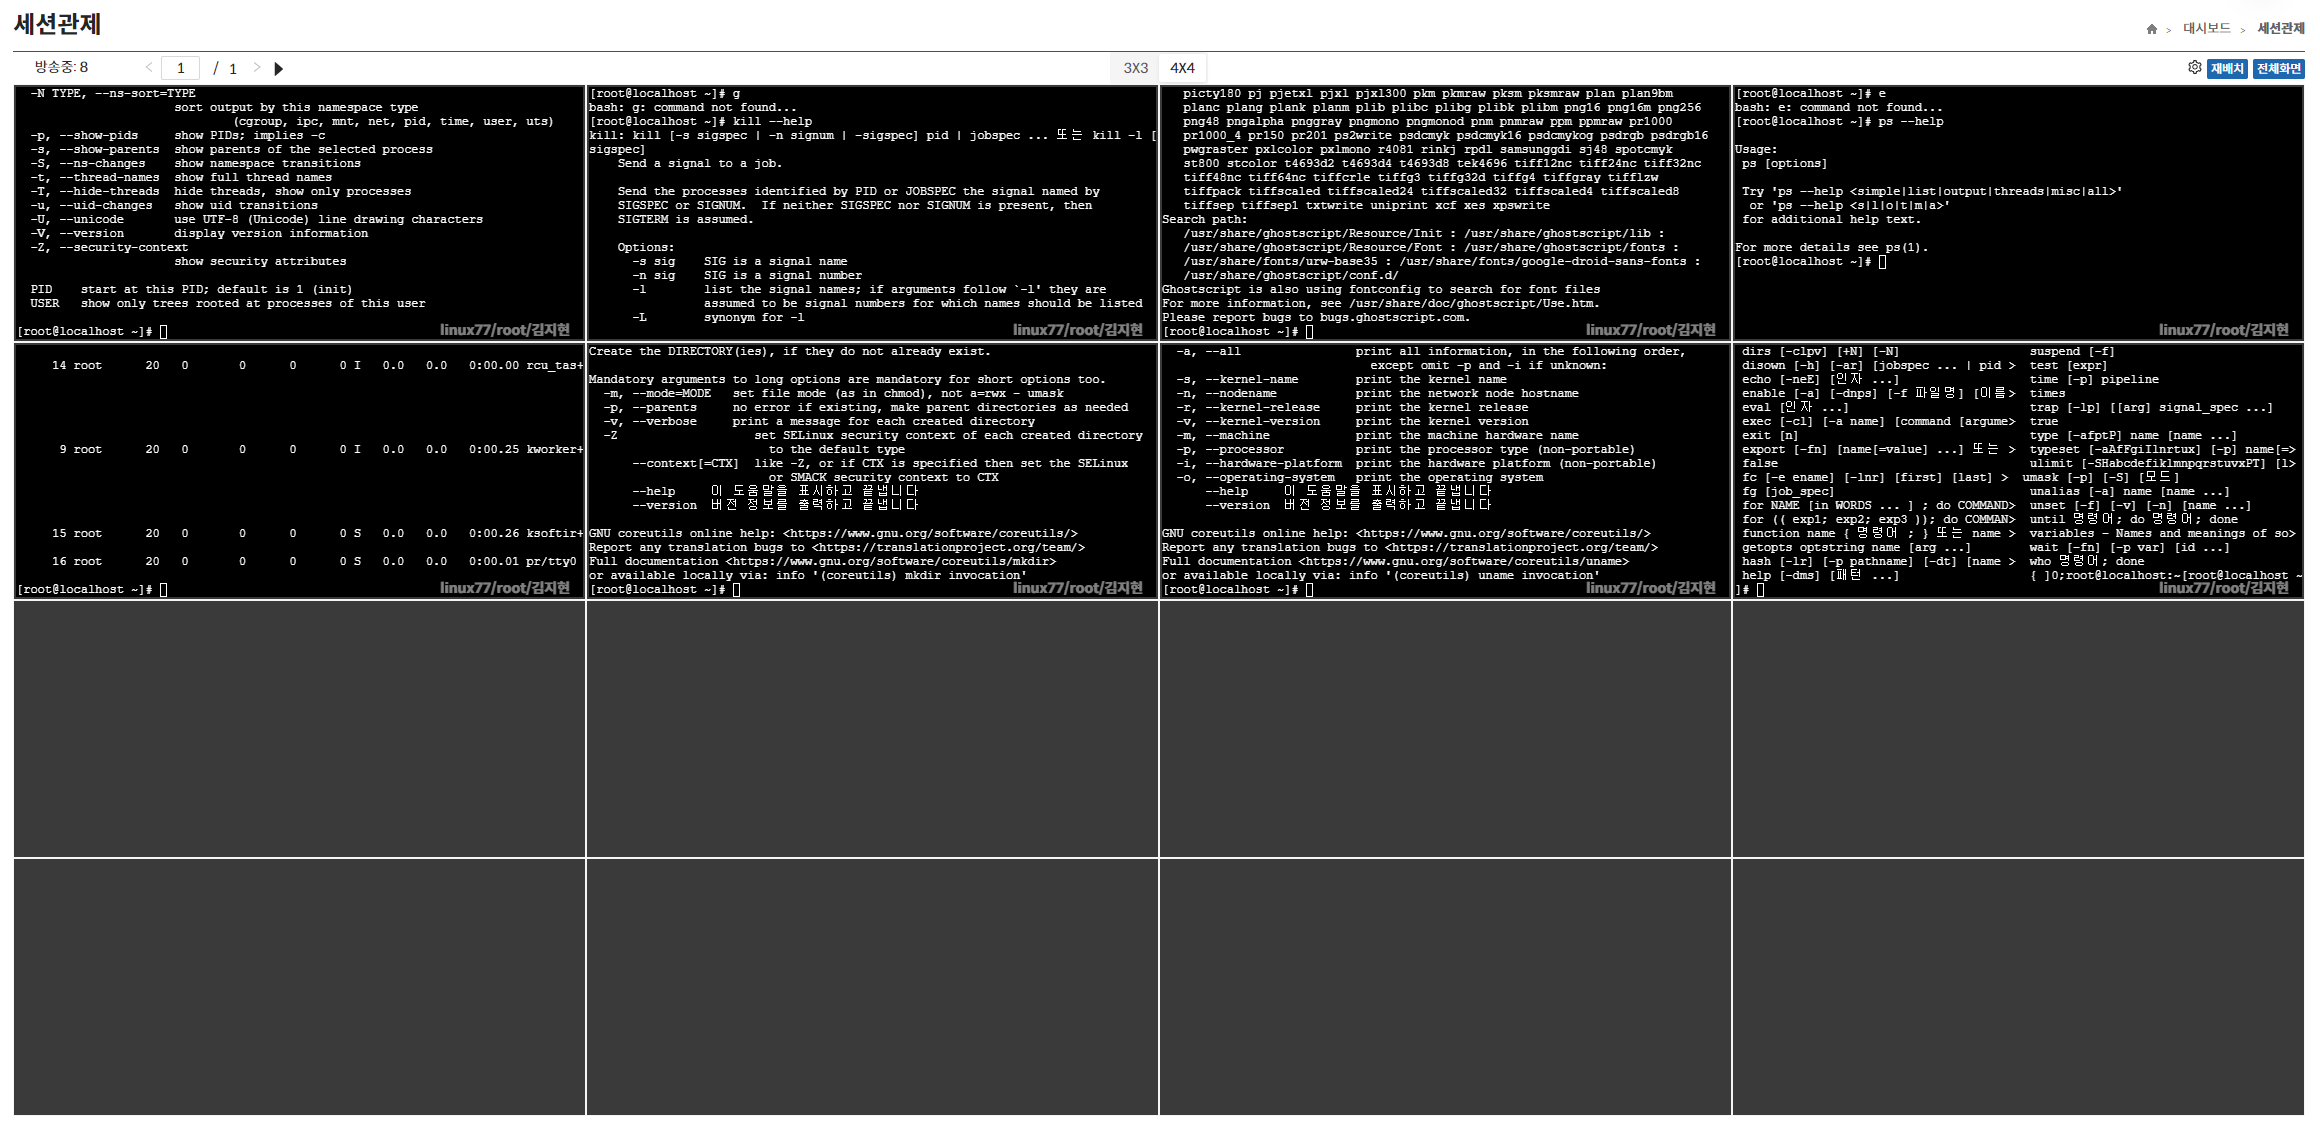
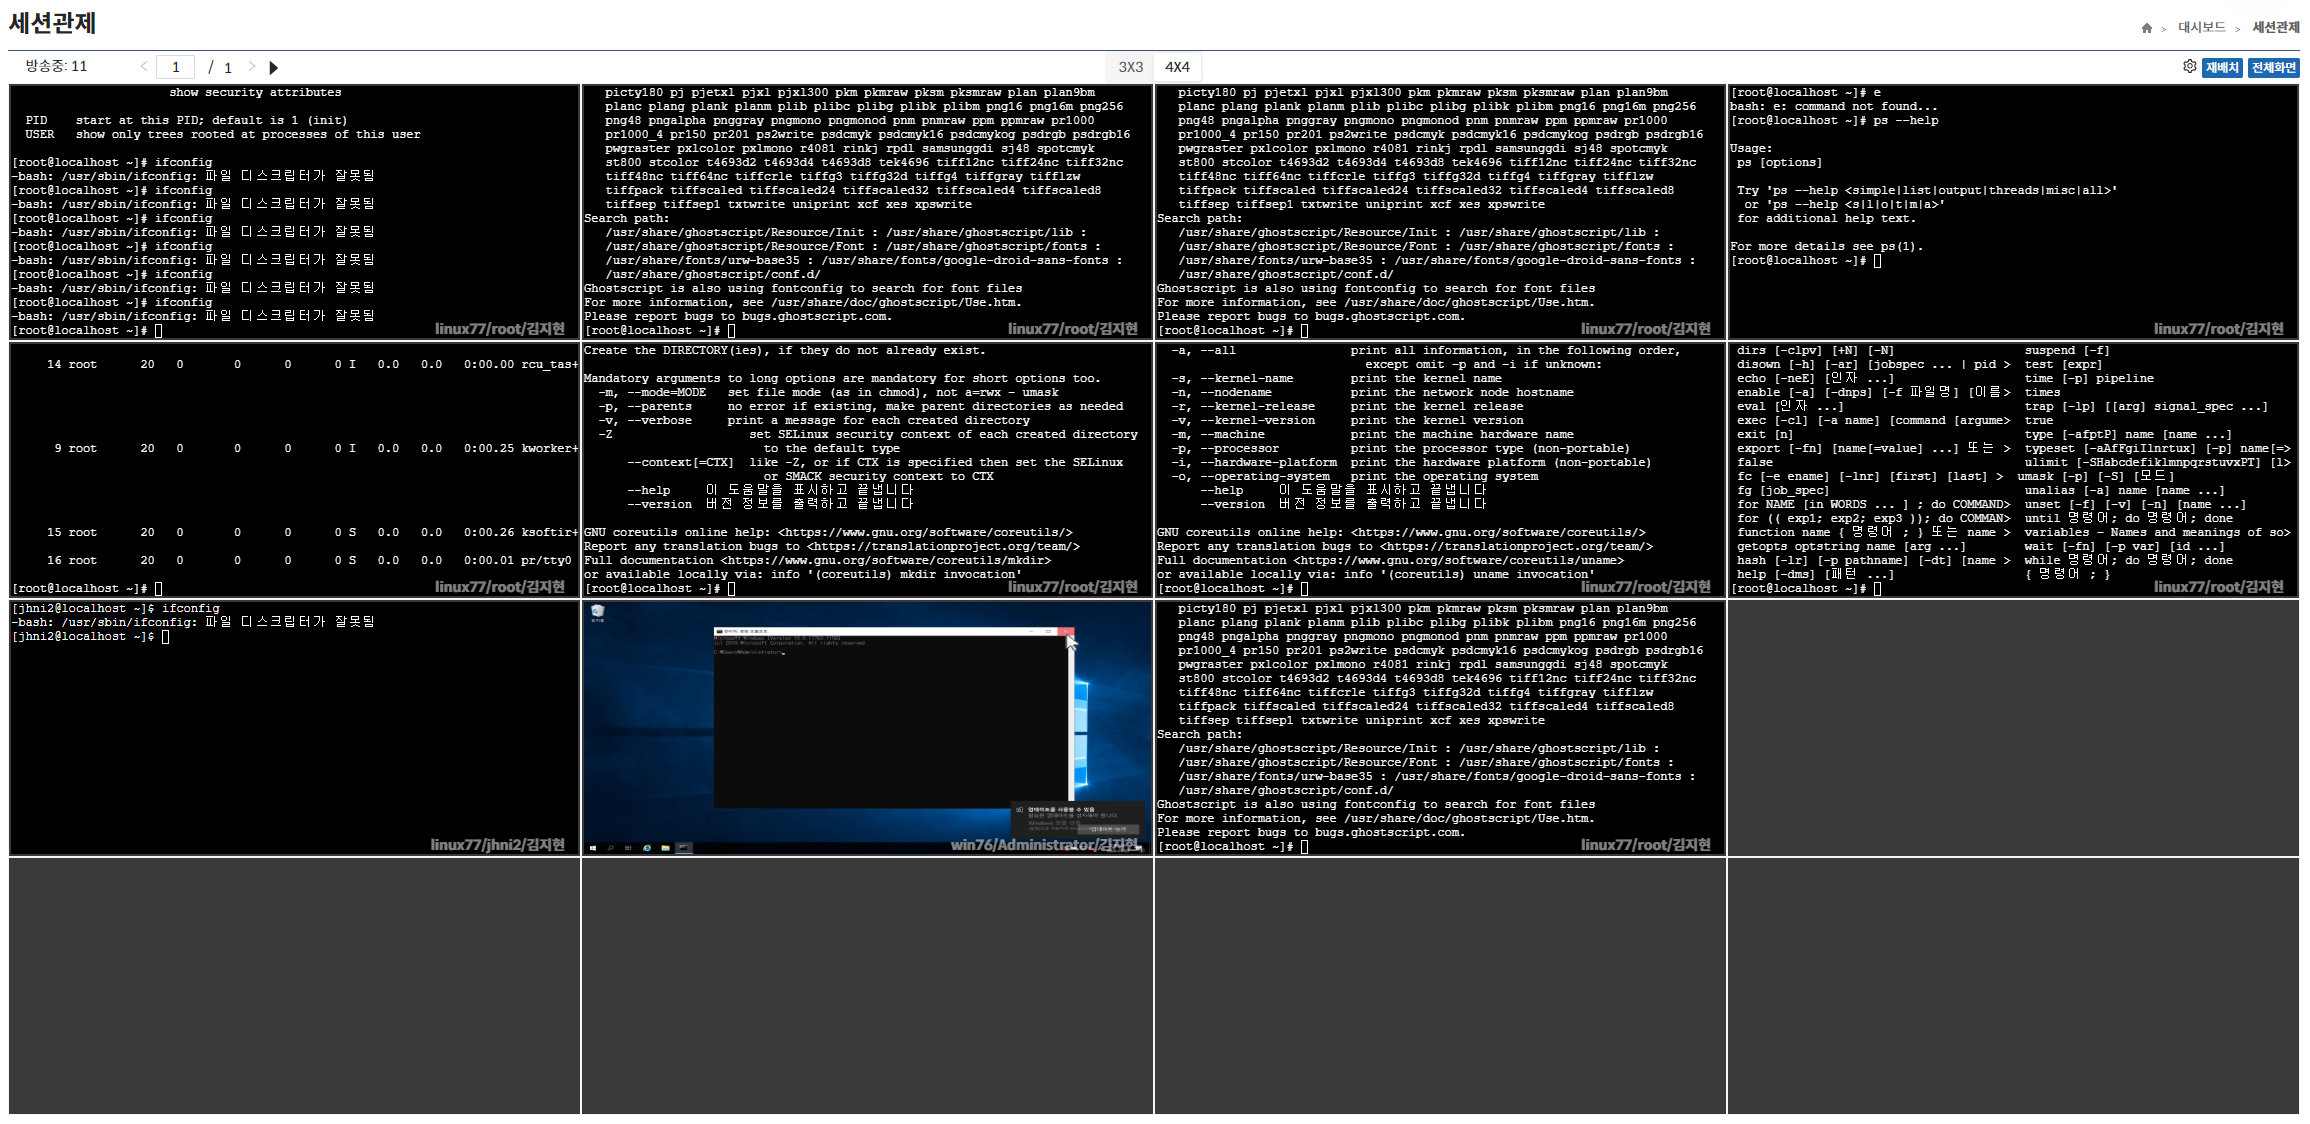
[refactor] 세션관제 사진 및 단어 수정

diff --git a/versioned_docs/version-3.0.11/5. 대시보드/5.3 세션관제/5.3 세션관제.md b/versioned_docs/version-3.0.11/5. 대시보드/5.3 세션관제/5.3 세션관제.md
@@ -1,7 +1,7 @@
 ## 세션 관제
 세션 관제 페이지는 보안관리 인터페이스의 관리대상에 현재 접속중인 세션을 다중 모니터링 할 수 있는 화면으로 동시에 9개 or 16개의 세션을 모니터링 할 수 있다.
 
-- 가장 최근에 실행한 세션이 상단에 위치한다.
+- 가장 최근에 실행한 세션이 하단, 뒷페이지에 위치한다.
 
 ![세션 관제](image-1.png)
 
@@ -47,7 +47,6 @@
 
 #### 4x4 방송 화면
 ![4x4](image-12.png)
-
 
 ### 주기 변경
 자동 페이지 전환 설정시 전환될 페이지 전환 주기 및 재배치 주기를 설정할 수 있다.
